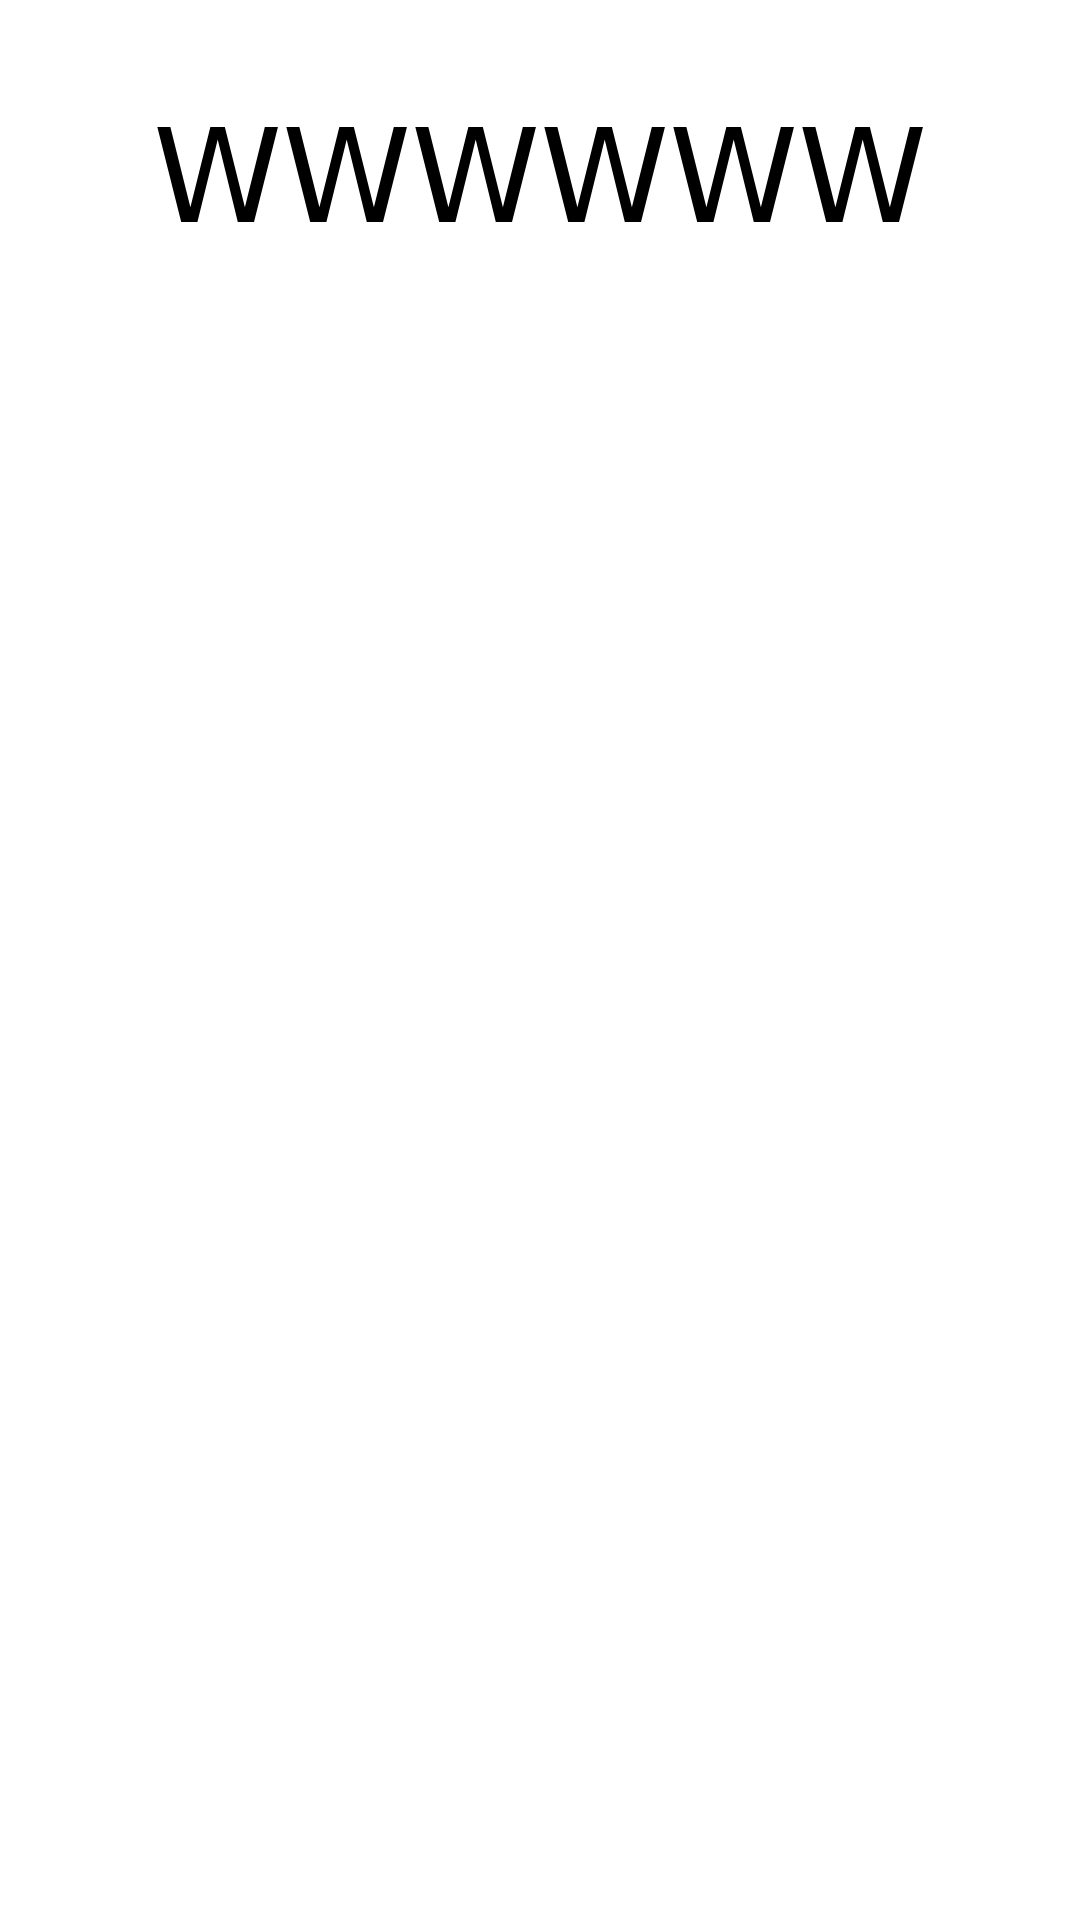
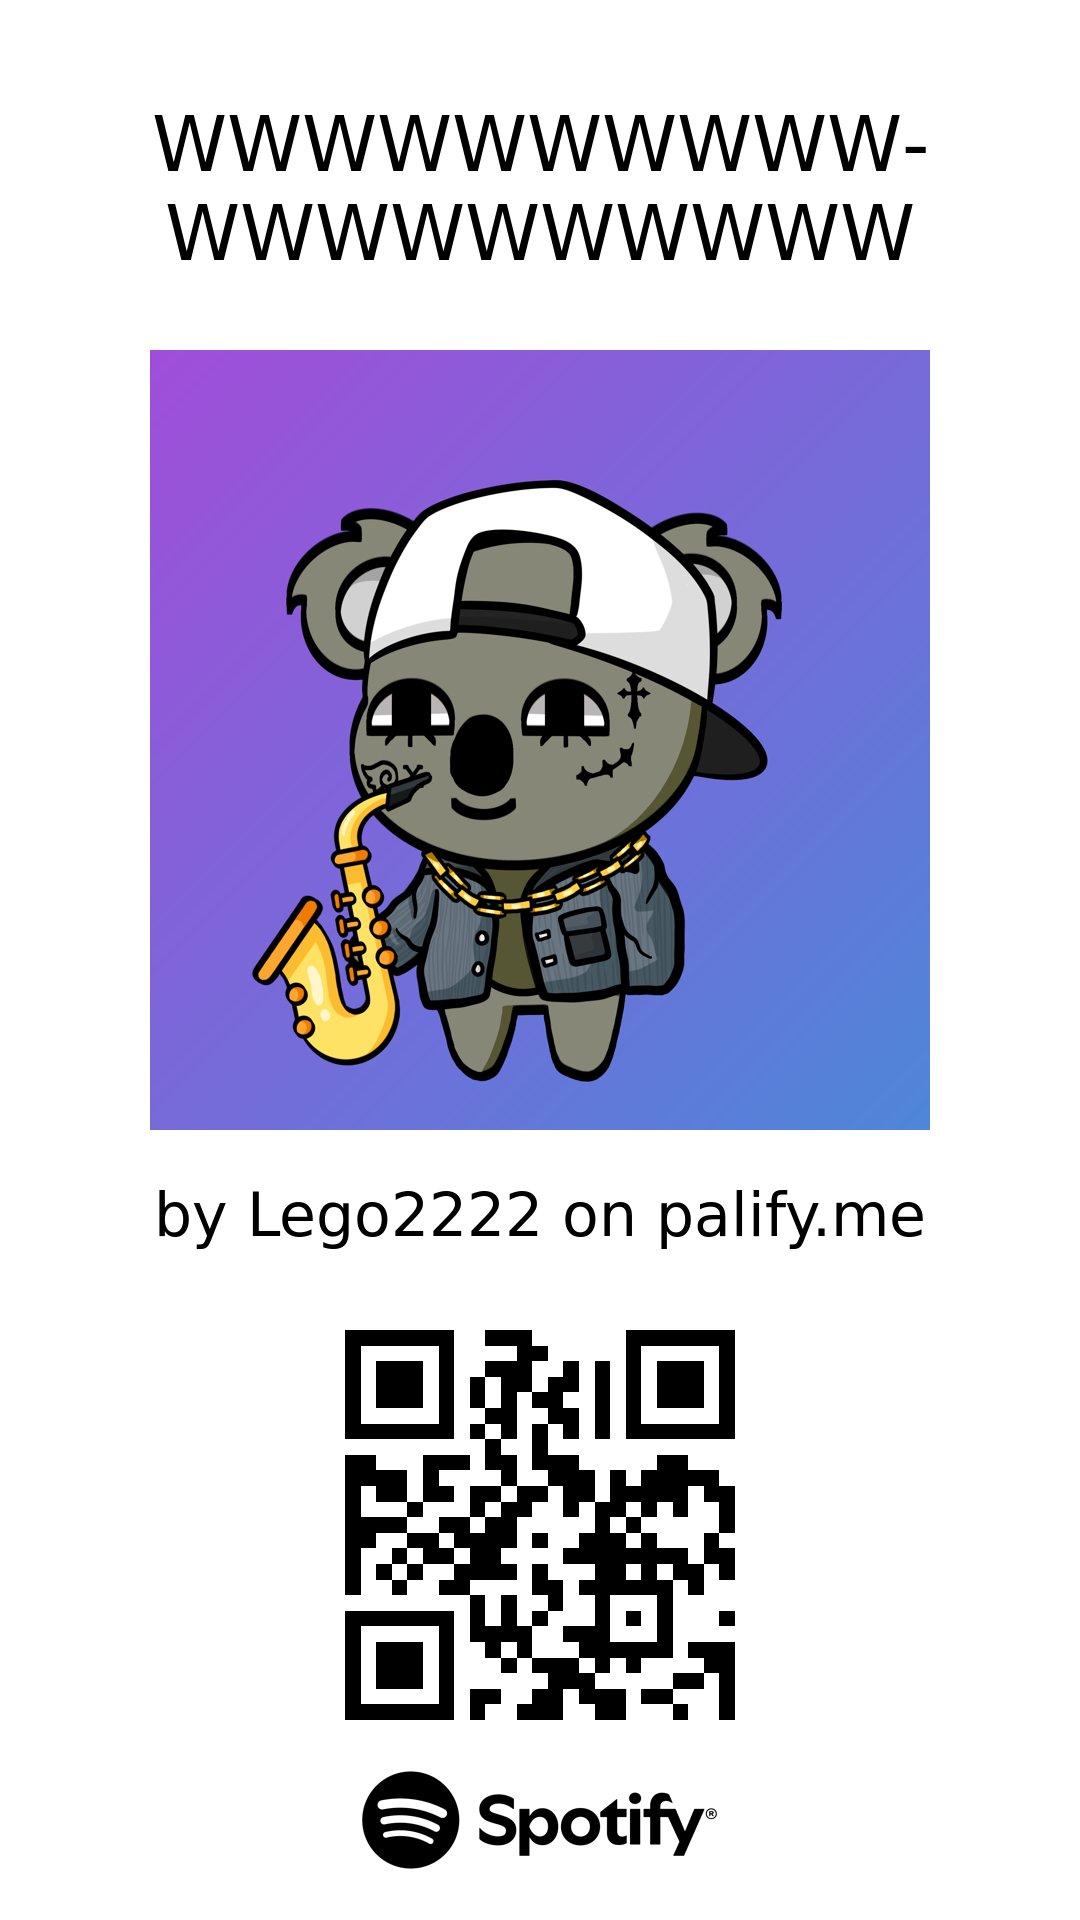
got it working

diff --git a/main.py b/main.py
@@ -2,15 +2,39 @@ import cairocffi as cairo
 import pangocffi
 import pangocairocffi
 from pangocffi import units_to_double, units_from_double
+import qrcode
+from PIL import Image
+import os
+
+def auto_size(text, height, layout):
+    for pt in range(1000, -1, -1):
+        desc = pangocffi.FontDescription()
+        desc.family = FONT_FAMILY
+        desc.size = units_from_double(pt)
+        layout.font_description = desc
+        layout.text = text
+        layout.alignment = pangocffi.Alignment(1)
+        ink, _ = layout.get_extents()
+        h_px = units_to_double(ink.height)
+        if h_px <= height:
+            return True
+    return False
+
 
 IMG_WIDTH = 1080
 IMG_HEIGHT = 1920
 CONTENT_WIDTH = 780
 TITLE_OFFSET = 100
 TITLE_HEIGHT = 200
+CAPTION_HEIGHT = 100
+LOGO_HEIGHT = 100
+LOGO_WIDTH = 365
+
+OFFSET = 50
 
 FONT_FAMILY = "sans"
 TITLE_LIM = 25
+USER_LIM = 18
 
 # Create canvas
 surface = cairo.ImageSurface(cairo.FORMAT_ARGB32, IMG_WIDTH, IMG_HEIGHT)
@@ -18,32 +42,92 @@ cr = cairo.Context(surface)
 cr.set_source_rgb(1,1,1)
 cr.paint()
 
-# Playlist title layout
-TITLE = "WWWWWW"
+# PLAYLIST TITLE ===============================================================
+TITLE = "WWWWWWWWWWWWWWWWWWWW"
 layout = pangocairocffi.create_layout(cr)
 layout.wrap = pangocffi.WrapMode.WORD_CHAR
 layout.width = units_from_double(CONTENT_WIDTH)
-title = TITLE if len(TITLE) <= 25 else TITLE[:TITLE_LIM]
+title = TITLE if len(TITLE) <= TITLE_LIM else TITLE[:TITLE_LIM]
 
 # decrease font size until it fits
-for pt in range(100, 0 - 1, -1):
-    desc = pangocffi.FontDescription()
-    desc.family = FONT_FAMILY
-    desc.size = units_from_double(pt)
-    layout.font_description = desc
-    layout.text = title
-    layout.alignment = pangocffi.Alignment(1)
-    # measure in Pango units
-    ink, logical = layout.get_extents()
-    w_px = units_to_double(ink.width)
-    h_px = units_to_double(ink.height)
-    if h_px <= TITLE_HEIGHT:
-        break
+if auto_size(title, TITLE_HEIGHT, layout):
+    cr.move_to((IMG_WIDTH - CONTENT_WIDTH) / 2, TITLE_OFFSET)
+    cr.set_source_rgb(0, 0, 0)
+    pangocairocffi.show_layout(cr, layout)
+else:
+    print("Title too long")
+    exit()
 
-print(pt)
+# CAPTION ======================================================================
+USERNAME = "Lego2222"
+layout = pangocairocffi.create_layout(cr)
+layout.wrap = pangocffi.WrapMode.WORD_CHAR
+layout.width = units_from_double(CONTENT_WIDTH)
+username = USERNAME if len(USERNAME) <= USER_LIM else USERNAME[:USER_LIM]
 
-# 5) Draw & save
-cr.move_to((IMG_WIDTH - CONTENT_WIDTH) / 2, TITLE_OFFSET)
-cr.set_source_rgb(0, 0, 0)
-pangocairocffi.show_layout(cr, layout)
-surface.write_to_png("shareable.png")
+# decrease font size until it fits
+if auto_size(f"by {username} on palify.me", CAPTION_HEIGHT, layout):
+    caption_y = TITLE_OFFSET + TITLE_HEIGHT + 2 * OFFSET + CONTENT_WIDTH
+    caption_x = (IMG_WIDTH - CONTENT_WIDTH) / 2
+    cr.move_to(caption_x, caption_y)
+    cr.set_source_rgb(0, 0, 0)
+    pangocairocffi.show_layout(cr, layout)
+else:
+    print("Caption too long")
+    exit()
+
+surface.write_to_png("temp_text.png")
+
+# Combine all images using PIL
+text_img = Image.open("temp_text.png")
+
+# AVATAR =======================================================================
+avatar_size = CONTENT_WIDTH  # Make avatar same width as content
+avatar = Image.open("avatar.png")
+avatar = avatar.resize((avatar_size, avatar_size))
+
+# Calculate avatar position (centered horizontally, below title)
+avatar_x = (IMG_WIDTH - avatar_size) // 2
+avatar_y = TITLE_OFFSET + TITLE_HEIGHT + OFFSET
+
+# LOGO ========================================================================
+logo = Image.open("logo.png").convert("RGBA")
+logo = logo.resize((LOGO_WIDTH, LOGO_HEIGHT))
+
+logo_x = (IMG_WIDTH - LOGO_WIDTH) // 2
+logo_y = IMG_HEIGHT - LOGO_HEIGHT - OFFSET
+
+# QR CODE ======================================================================
+qr = qrcode.QRCode(
+    version=1,
+    error_correction=qrcode.constants.ERROR_CORRECT_L,
+    box_size=20,  # Reduced box size for better proportions
+    border=0,
+)
+qr.add_data("https://www.palify.me/")
+qr.make(fit=True)
+
+qr_img = qr.make_image(fill_color="black", back_color="white")
+
+# Define QR code size and position
+qr_size = logo_y - caption_y - CAPTION_HEIGHT - 2 * OFFSET # Define QR code size
+qr_img = qr_img.resize((qr_size, qr_size))
+
+# Calculate position for QR code (centered horizontally, below the avatar and caption)
+qr_x = (IMG_WIDTH - qr_size) // 2
+qr_y = caption_y + CAPTION_HEIGHT + OFFSET
+
+# Convert RGBA to RGB if needed
+if text_img.mode == 'RGBA':
+    text_img = text_img.convert('RGB')
+
+# Paste avatar, QR code, and logo onto main image
+text_img.paste(avatar, (avatar_x, avatar_y))
+text_img.paste(qr_img, (qr_x, qr_y))
+text_img.paste(logo, (logo_x, logo_y), logo)
+
+# Save final combined image
+text_img.save("shareable.png")
+
+# Clean up temporary file
+os.remove("temp_text.png")
